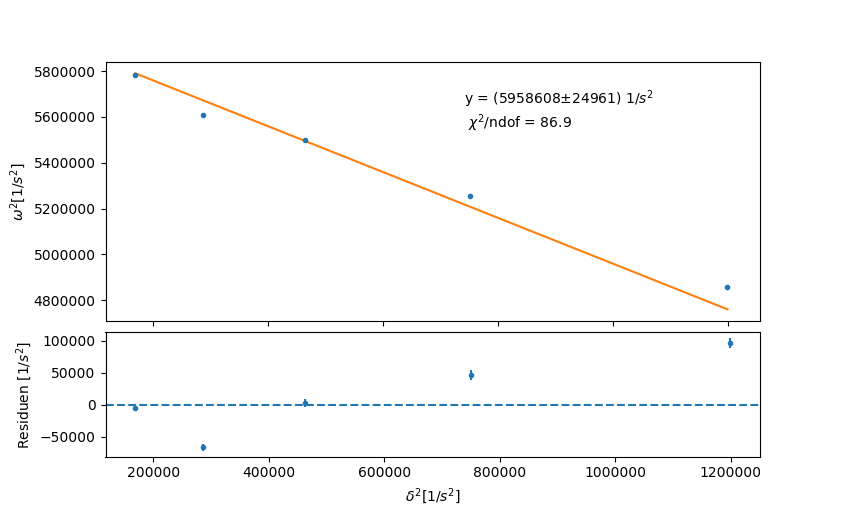
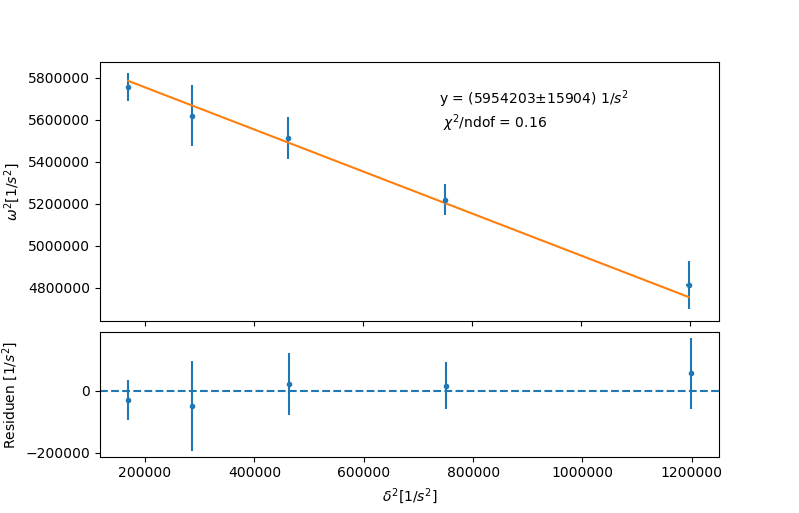
.

diff --git a/Elektronik/Python/LC_dämpfung.py b/Elektronik/Python/LC_dämpfung.py
@@ -265,8 +265,8 @@ sig_R_rest = eb
 
 
 # Kondensator berechnen
-omega = np.array([382.78, 376.84, 373.21, 364.84, 350.75])*2*np.pi
-sig_omega = np.array([0.16, 0.18, 0.20, 0.22, 0.24])*2*np.pi
+omega = np.array([381.85, 377.29, 373.66, 363.64, 349.12])*2*np.pi
+sig_omega = np.array([2.15, 4.90, 3.4, 2.63, 4.15])*2*np.pi
 
 sq_omega = omega**2
 sig_sq_omega = 2*omega*sig_omega
@@ -292,4 +292,4 @@ plt.errorbar(sq_delta, sq_omega+sq_delta-b, yerr= np.sqrt(sig_sq_delta**2 + sig_
 plt.axhline(linestyle="dashed")
 plt.ylabel("Residuen [$1/s^2$]")
 plt.xlabel("$\delta ^2 [1/s^2]$")
-plt.figtext(0.55, 0.75, "y = ({:7.0f}$\pm${:5.0f}) $1/s^2$\n $\chi ^2$/ndof = {:1.1f}".format(b, eb, chi2/4))
+plt.figtext(0.55, 0.75, "y = ({:7.0f}$\pm${:5.0f}) $1/s^2$\n $\chi ^2$/ndof = {:1.2f}".format(b, eb, chi2/4))
